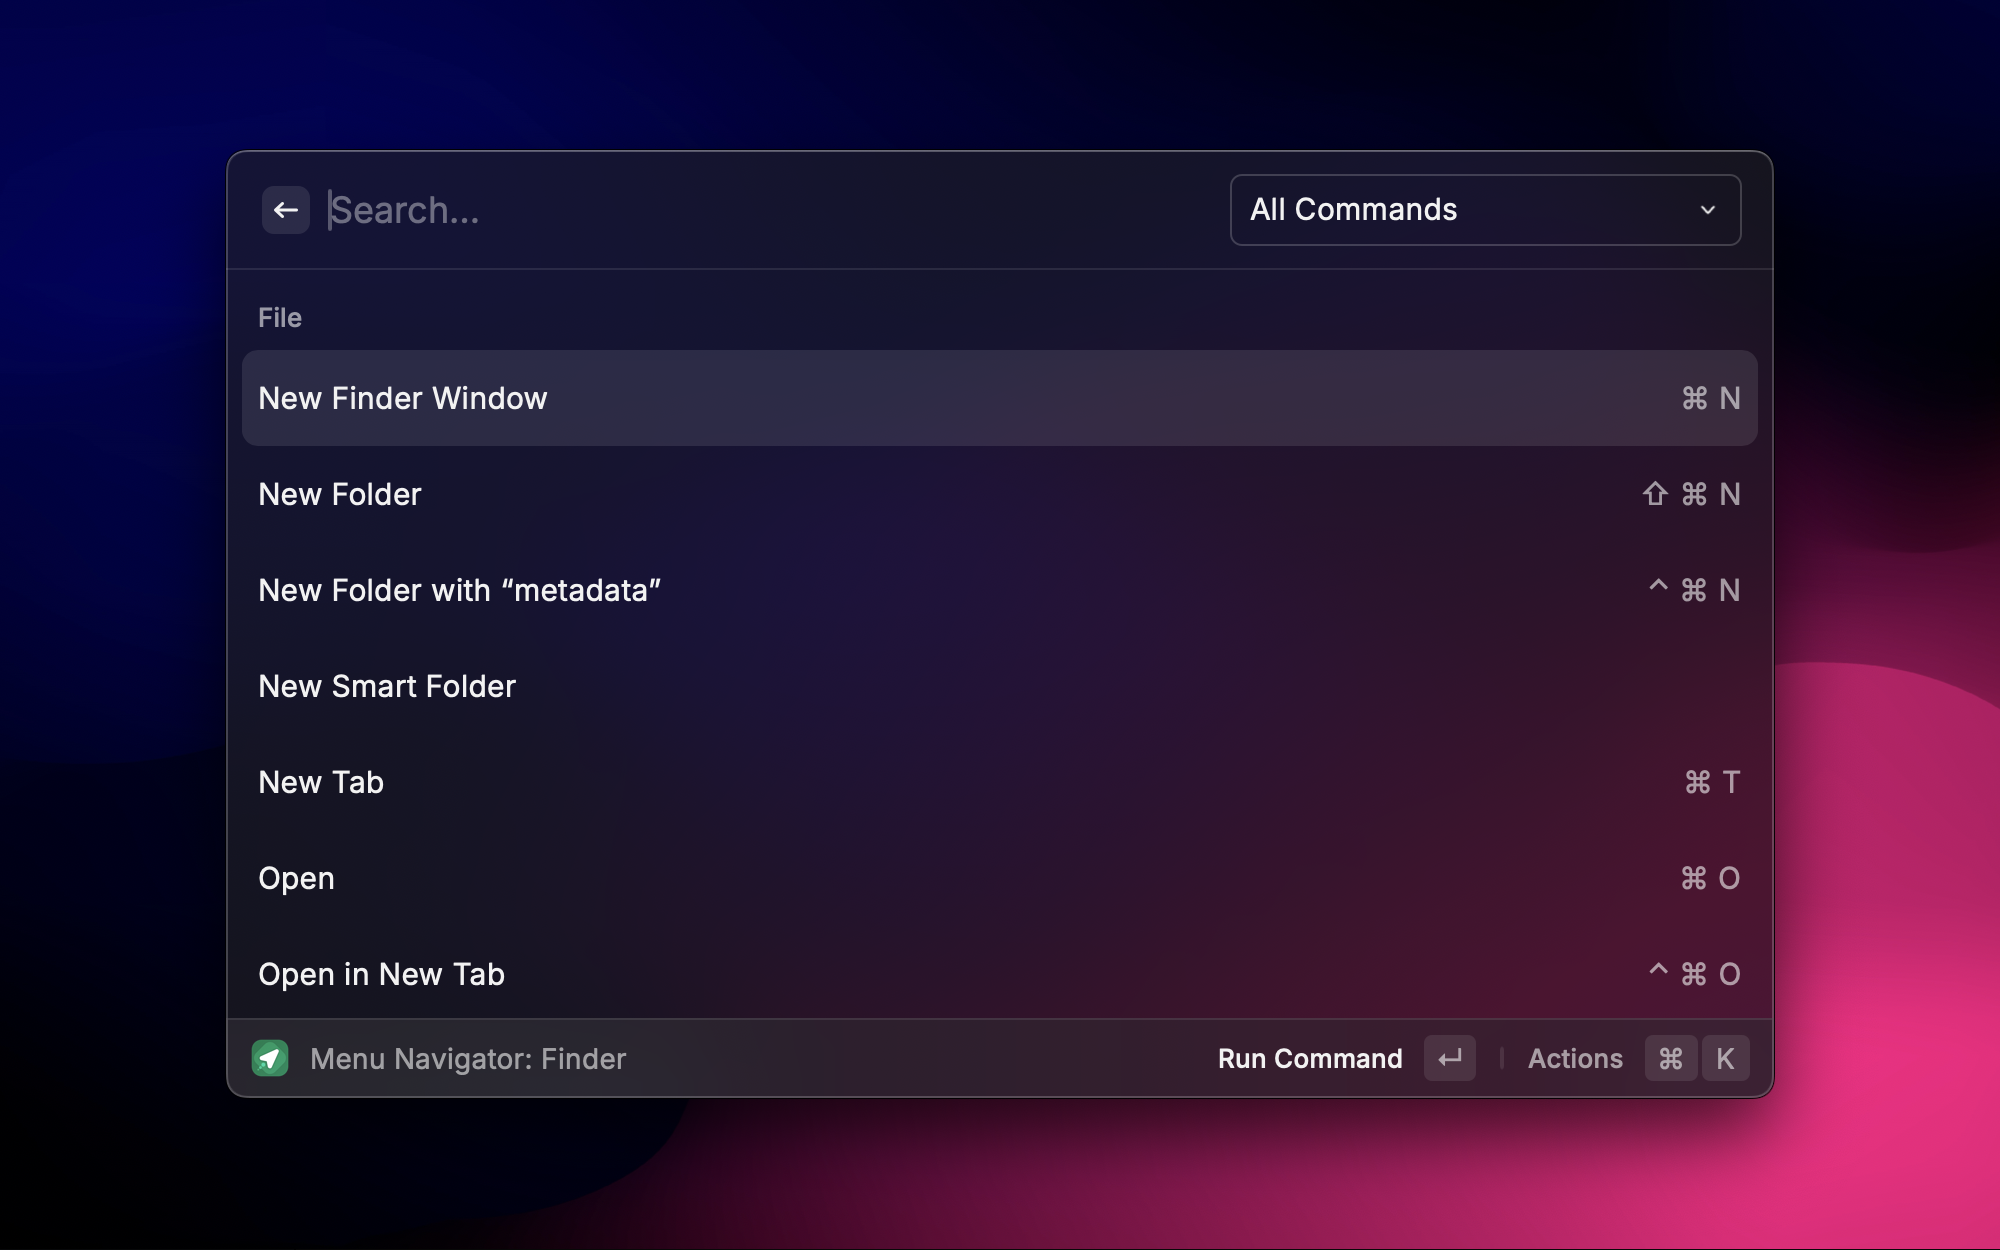
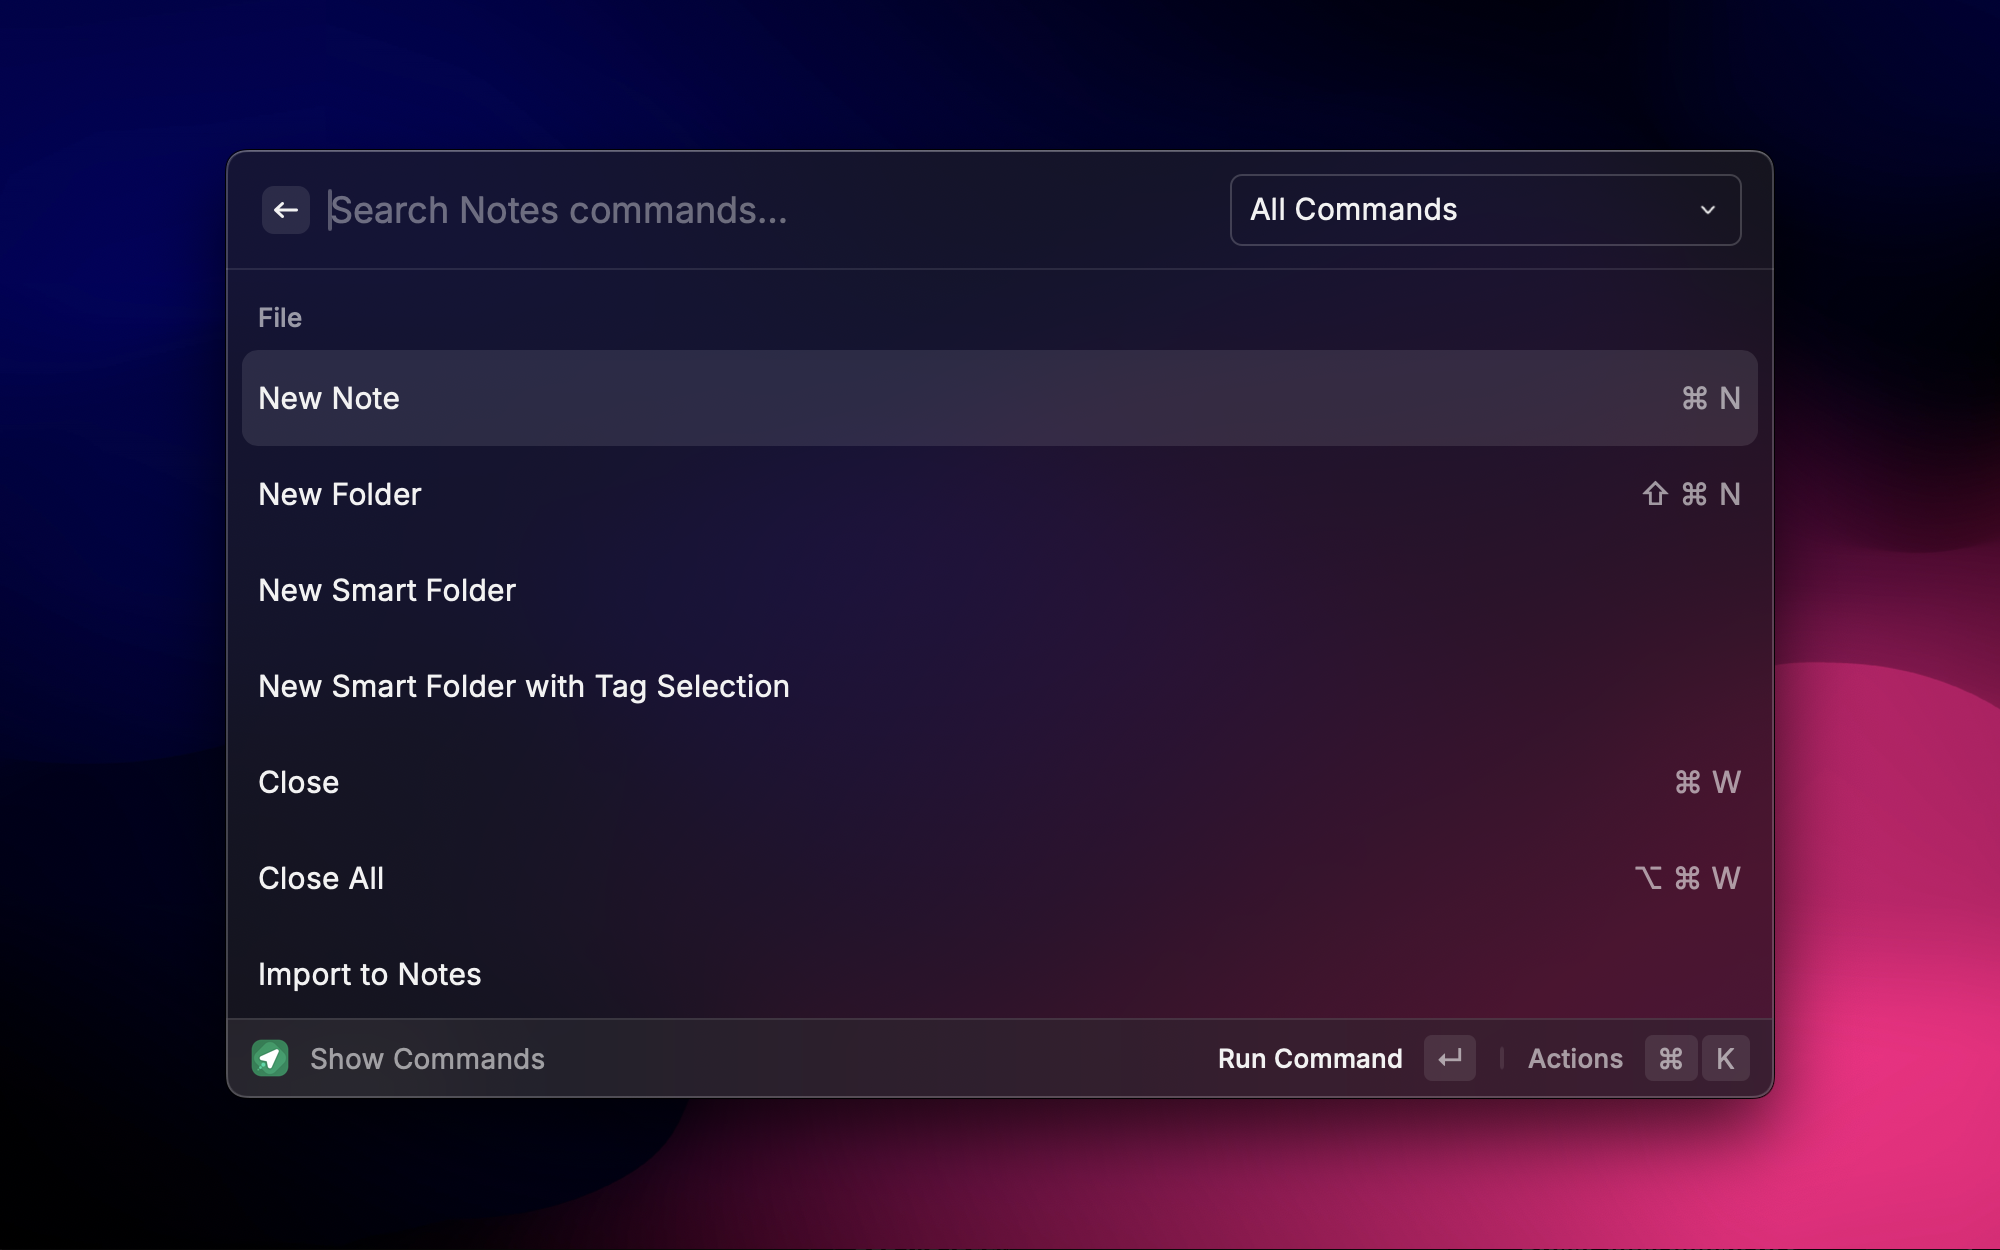
Update screenshots and submenu placeholder

diff --git a/src/ui/submenu-list-items.tsx b/src/ui/submenu-list-items.tsx
@@ -45,8 +45,13 @@ export function SubMenuListItems({
     [item.submenu, item.menu],
   );
 
+  const name = app?.name ? `${app.name} > ${item.menu}` : '';
+
   return (
-    <List navigationTitle={item.shortcut}>
+    <List
+      navigationTitle={item.shortcut}
+      searchBarPlaceholder={`Search ${name} commands...`}
+    >
       {submenuSections?.map((section) => (
         <List.Section key={section.title} title={section.title}>
           {section.items.map((subItem) => (
